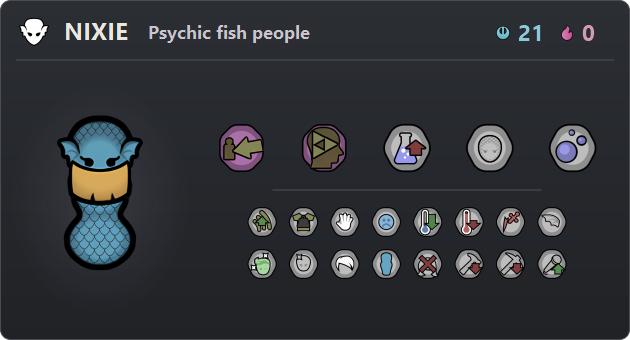
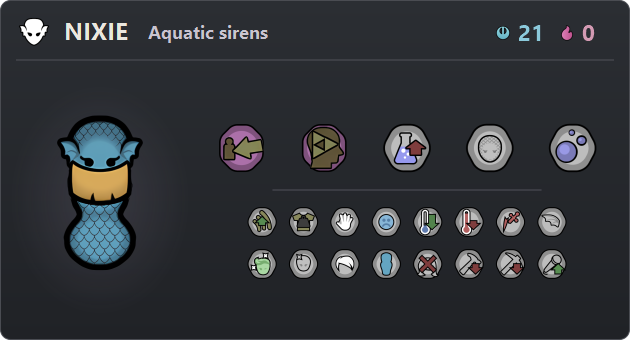
More description tweaks

Changed region(s): [[0.2111, 0.0588, 0.5127, 0.1176]]

diff --git a/XylXenos/CONTENT.md b/XylXenos/CONTENT.md
@@ -24,13 +24,13 @@ Dvergr's gene set focuses on labor, with bonuses to global work speed and to con
 
 #### Nixie
 
-Psychic fish people. They're unmatched in water, but unless they periodically soak to keep their skin moist they'll become very unhappy.
+Aquatic sirens. They're unmatched in water, but unless they periodically soak to keep their skin moist they'll become very unhappy.
 
 Nixies do best in cold maps with lots of water. They're poor at melee, but specialize at using Beckon to lure enemies into water where they can swim circles around them. Their main drawback is they need to spend hours a day soaking in water. The amount of soaking they need climbs rapidly as temperatures go up.
 
 #### Titan
 
-Engineered rock giants. They're super tough and each is specialized in one random skill, but they move slowly and have difficulty learning other skills. They can't use most normal drugs and require special drugs designed for lithoids.
+Engineered stone giants. They're super tough and each is specialized in one random skill, but they move slowly and have difficulty learning other skills. They can't use most normal drugs and require special drugs designed for lithoids.
 
 Titans' gene package is focused on one thing: toughness. They have extra HP, their skin provides natural armor that reduces damage, bleeding wounds close automatically, and they shrug off infections and are completely immune to toxins. However, if they do get injured, they will spend a long time recovering. Labor-wise, each Titan is particularly good at one thing, but generally terrible at anything else. Their unique drugs also provide a special challenge to supply.
 

diff --git a/XylXenos/Data/About/README.md b/XylXenos/Data/About/README.md
@@ -1,6 +1,6 @@
 # Xyl's Xenotypes
 
-Twelve xenotypes for RimWorld, from fungus-fed underground builders to engineered rock giants, psychic fish people, and high-tech spacers. Each brings its own needs, strengths, and complications to colony life.
+Twelve xenotypes for RimWorld, from fungus-fed underground builders to engineered stone giants, aquatic sirens, and high-tech spacers. Each brings its own needs, strengths, and complications to colony life.
 
 This mod includes the 12 xenotypes, 121 new genes, 4 factions, 4 scenarios, and a variety of new events, animals, buildings, and items.
 
@@ -36,11 +36,11 @@ Optional DLC unlocks additional content:
 
 ### Nixie
 
-![Nixie — Psychic fish people](../Docs/Images/XenotypeCards/nixie-card.png)
+![Nixie — Aquatic sirens](../Docs/Images/XenotypeCards/nixie-card.png)
 
 ### Titan
 
-![Titan — Engineered rock giants](../Docs/Images/XenotypeCards/titan-card.png)
+![Titan — Engineered stone giants](../Docs/Images/XenotypeCards/titan-card.png)
 
 ### Trog
 
